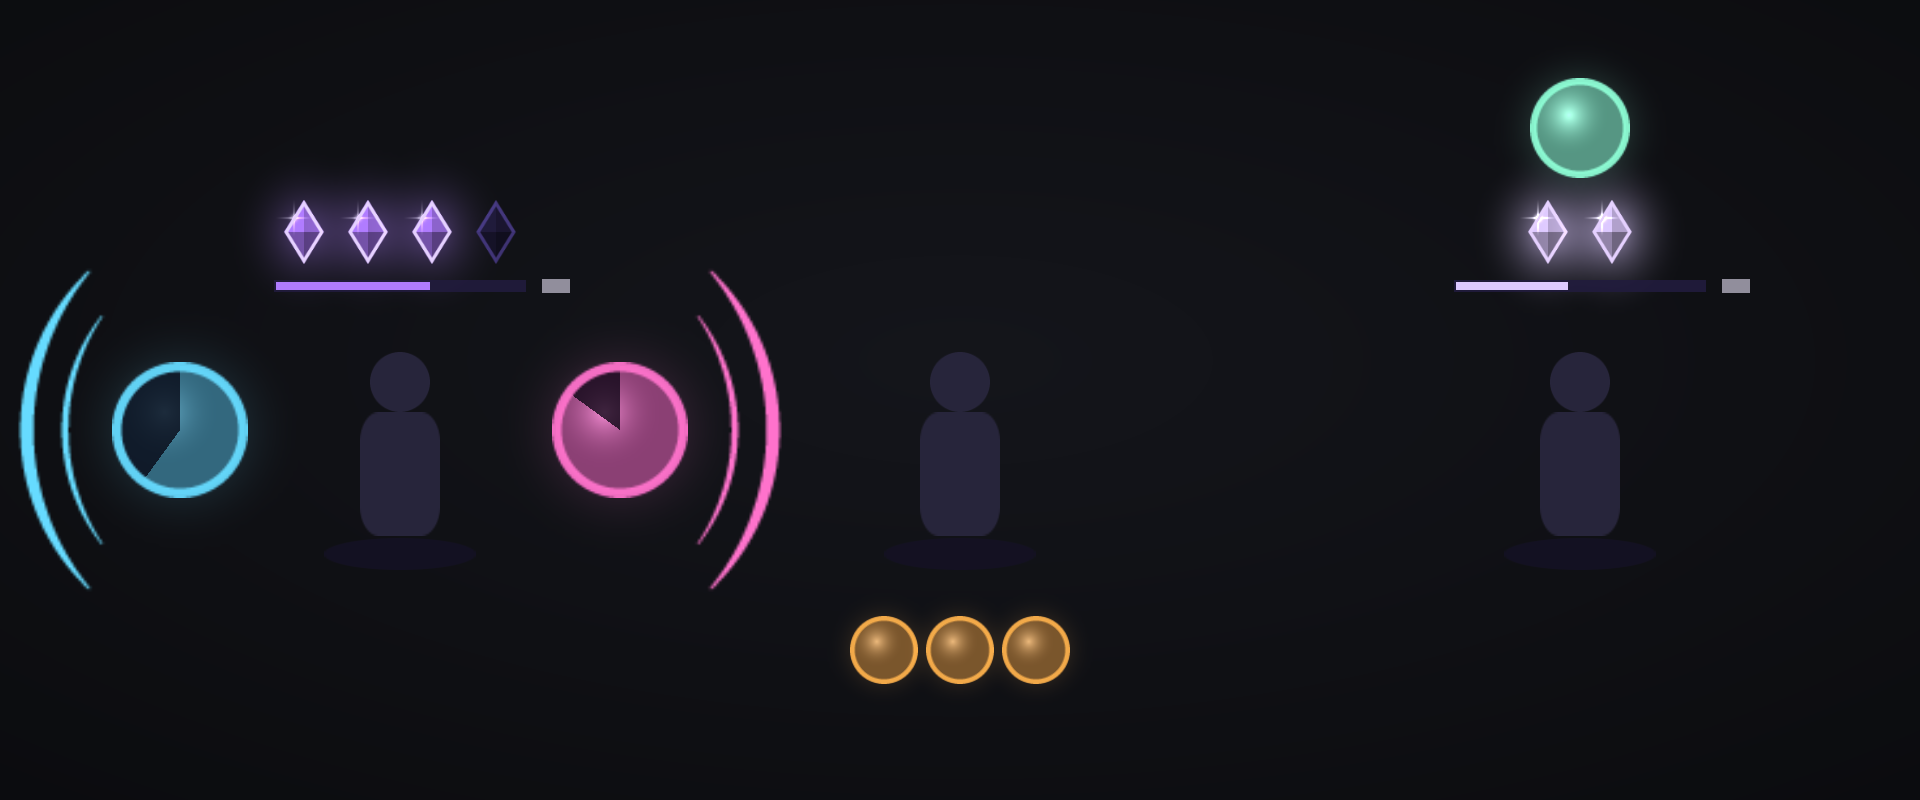
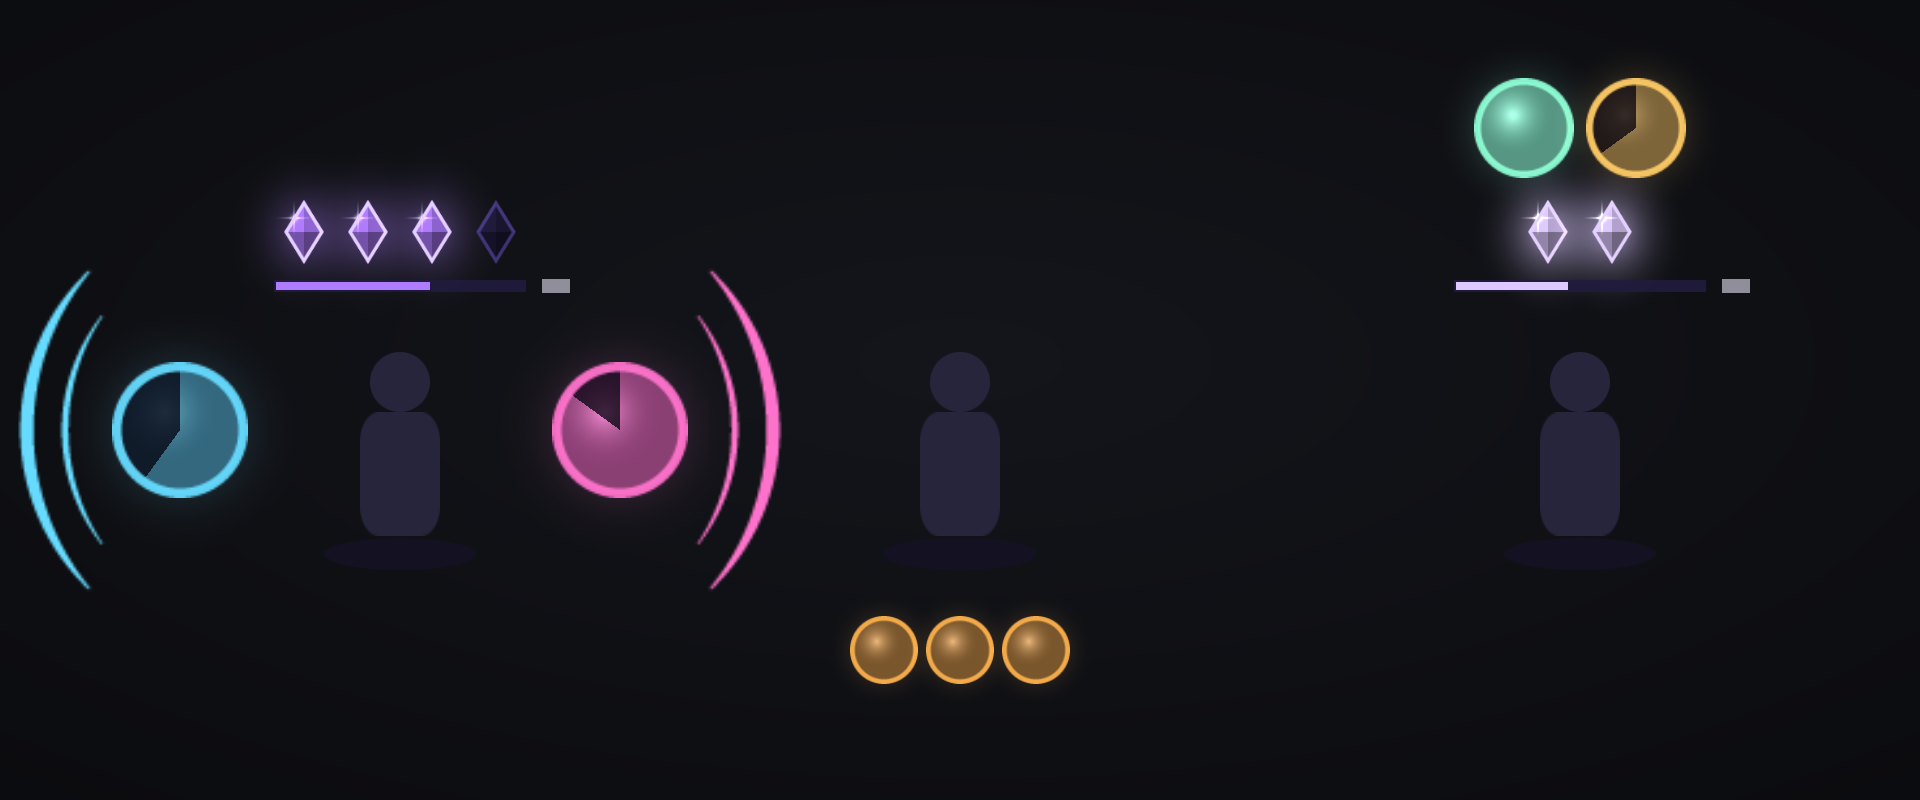
Arcanum 1.2.0 : Eurêka actif, à côté de la Présence spirituelle
Au-dessus des charges, l'icône d'Eurêka (cerclée d'or, avec son temps
restant) s'affiche tant que l'amélioration est active. Présence
spirituelle et Eurêka actifs ensemble : les deux icônes côte à côte.

Changed region(s): [[0.75, 0.0938, 0.875, 0.2188]]

diff --git a/tools/test/run_tests.py b/tools/test/run_tests.py
@@ -627,15 +627,25 @@ def main():
     check(f.S.stacks == 1 and len(shown) == 2 and all(c._points[1][5] > 100 for c in shown),
           "une charge : les cristaux apparaissent au-dessus du personnage, un par charge visée")
     check(hud.bar._alpha == 1 and hud.barText._text in ("18 s", "17 s"), "sous les cristaux, la barre de leur fenêtre et ses secondes")
-    pom = hud.pomIcon
-    check(pom.on is False and pom._alpha == 0, "Présence spirituelle inactive : rien au-dessus des charges")
+    pom, eur = hud.pomIcon, hud.eurekaIcon
+    check(pom.on is False and pom._alpha == 0 and eur.on is False and eur._alpha == 0,
+          "ni Présence spirituelle ni Eurêka : rien au-dessus des charges")
+    f.cast(EUREKA)
+    f.M.advance(0.4)
+    check(f.S.eureka.active and eur.on is True and eur._alpha > 0.9 and eur.icon._tex == 130817 and eur.cd._cd[2] == 8,
+          "Eurêka actif : son icône s'affiche, avec ses 8 s")
+    check(eur._points[1][4] == 0 and eur._points[1][5] > shown[0]._points[1][5], "au-dessus des charges, centrée")
     f.cast(POM)
     f.M.advance(0.4)
     check(f.S.pom.active and pom.on is True and pom._alpha > 0.9 and pom.icon._tex == 130043
           and pom._points[1][5] > shown[0]._points[1][5], "Présence spirituelle active : son icône s'affiche au-dessus des charges")
+    check(pom._points[1][4] == -28 and eur._points[1][4] == 28, "les deux actives : côte à côte")
     f.cast(WRATH)
     f.M.advance(0.6)
     check(not f.S.pom.active and pom.on is False and pom._alpha == 0, "dépensée par le Courroux : l'icône disparaît")
+    check(eur.on is True and eur._points[1][4] == 0, "Eurêka, toujours actif, se recentre")
+    f.M.advance(7)
+    check(not f.S.eureka.active and eur.on is False and eur._alpha == 0, "Eurêka terminé : son icône disparaît")
     played = lambda name: len([p for p in (f.M.soundFiles or {}).values() if p.endswith(name + ".ogg")])
     check(played("burst") == 0, "plus aucun son de burst")
     f.M.proc("Barrage de projectiles", 400588)
@@ -678,15 +688,16 @@ def main():
     f.M.setCombat(False)
     f.run('Mock.auras = {}; Mock.fire("UNIT_AURA", "player", {})')
     f.run('SlashCmdList.ARCANUM("demo")')
-    sides, charges, pom_seen = set(), set(), False
+    sides, charges, pom_seen, eur_seen = set(), set(), False, False
     for _ in range(240):
         f.M.advance(0.05)
         pom_seen = pom_seen or pom.on is True
+        eur_seen = eur_seen or eur.on is True
         sides.update(k for k, b in (("clear", left), ("barrage", right)) if b.on)
         charges.add(f.S.stacks)
     check(sides == {"clear", "barrage"}, "la démonstration montre les deux procs, chacun de son côté")
     check(charges == {0, 1, 2, 3, 4}, "les charges qui montent")
-    check(pom_seen, "et la Présence spirituelle")
+    check(pom_seen and eur_seen, "la Présence spirituelle et Eurêka")
     f.run('SlashCmdList.ARCANUM("demo")')
     f.M.advance(0.5)
     check(not any(b.on for b in hud.procs.values()) and f.S.stacks == 0 and not any(c._shown for c in hud.crystals.values()),

diff --git a/tools/preview.py b/tools/preview.py
@@ -2,7 +2,7 @@
 """Aperçu du HUD d'Arcanum : compose les vraies textures de l'addon selon la mise en page de UI/Hud.lua.
 
 Trois scènes : en combat (procs de part et d'autre du personnage, charges au-dessus), hors combat (rappels
-sous le personnage), et la Présence spirituelle active.
+sous le personnage), et la Présence spirituelle et Eurêka actifs.
 
 Ce n'est pas une capture du jeu : les icônes de sorts et les textes sont remplacés par des aplats.
 Sert à juger les formes, les couleurs et les halos sans lancer WoW. Aucune dépendance.
@@ -201,9 +201,10 @@ def scene(cx, cy, stacks=0, target=2, window=0.0, clear=None, barrage=None, pom=
         blit(None, cx, by, 126, 6, C["socket"], 0.90)
         blit(None, cx - 62 + 124 * window / 2, by, 124 * window, 4, col, 1)
         blit(None, cx + 62 + 16, by, 14, 7, mix(C["text"], C["ink"], 0.35), 0.9)   # secondes (aplat)
-    # Présence spirituelle active : son icône, au-dessus des charges
+    # Présence spirituelle et Eurêka actifs : leurs icônes côte à côte, au-dessus des charges
     if pom:
-        round_icon(cx, top - 17 - 23 - 12, 46, C["pom"], C["pom"], glow=0.50)
+        round_icon(cx - 28, top - 17 - 23 - 12, 46, C["pom"], C["pom"], glow=0.50)
+        round_icon(cx + 28, top - 17 - 23 - 12, 46, C["power"], C["power"], glow=0.50, cooldown=0.35)
     # rappels avant le combat, sous le personnage
     amber = (1.000, 0.700, 0.300)
     for i in range(reminders):
@@ -213,7 +214,7 @@ def scene(cx, cy, stacks=0, target=2, window=0.0, clear=None, barrage=None, pom=
 
 def main():
     background()
-    # en combat, deux procs et trois charges sur quatre ; hors combat, trois rappels ; Présence spirituelle active
+    # en combat, deux procs et trois charges sur quatre ; hors combat, trois rappels ; Présence spirituelle et Eurêka actifs
     scene(200, 215, stacks=3, target=4, window=0.62, clear=0.6, barrage=0.85)
     scene(480, 215, reminders=3)
     scene(790, 215, stacks=2, target=2, window=0.45, pom=True)

diff --git a/README.md b/README.md
@@ -6,11 +6,11 @@ Arcanum place chaque information d'un côté de ton personnage, pour que tu la l
 
 ![Aperçu du HUD d'Arcanum](docs/apercu.png)
 
-*Aperçu composé avec les textures de l'addon (le personnage est une silhouette, les icônes sont remplacées par des aplats, les zones sont plus rapprochées qu'en jeu). De gauche à droite : en combat avec deux procs et des charges, hors combat avec trois rappels, et la Présence spirituelle active. En jeu : `/arc demo`.*
+*Aperçu composé avec les textures de l'addon (le personnage est une silhouette, les icônes sont remplacées par des aplats, les zones sont plus rapprochées qu'en jeu). De gauche à droite : en combat avec deux procs et des charges, hors combat avec trois rappels, et la Présence spirituelle et Eurêka actifs. En jeu : `/arc demo`.*
 
 - **À gauche : les Idées claires. À droite : le Barrage de projectiles.** Une grande icône, celle du proc, cerclée de sa couleur (bleu clair ou rose), avec le temps restant en chiffres et un voile qui grandit à mesure que le proc s'épuise. Pas de proc : le côté reste vide. Un **décor** entoure l'icône tant que le proc est là, à sa couleur : croissants (d'origine), losange, anneau de runes qui tourne, éclat de rayons, ou aucun. Il se choisit dans les réglages (« Décor des procs », qui le montre aussitôt sur le HUD) ou avec `/arc decor`.
 - **En haut : les charges de Déflagration des Arcanes**, seulement quand tu en as. Un cristal par charge visée (deux par défaut, réglable à 3 ou 4), qui s'éclaircit quand la cible est atteinte ; un cristal de plus apparaît quand le jeu t'offre une charge. Dessous, une barre se vide pendant les 18 secondes de la fenêtre des charges, avec les secondes restantes ; elle rougit quand la fenêtre va se fermer.
-- **Au-dessus des charges : la Présence spirituelle**, tant qu'elle est active. Son icône, cerclée de vert, te rappelle que ton prochain sort sera instantané.
+- **Au-dessus des charges : la Présence spirituelle et Eurêka**, tant qu'ils sont actifs. L'icône de la Présence spirituelle, cerclée de vert, te rappelle que ton prochain sort sera instantané ; celle d'Eurêka, cerclée d'or, montre son temps restant. Une seule active : elle est centrée ; les deux : côte à côte.
 - **En bas, hors combat : les rappels.** L'icône de ce qu'il manque avant d'engager : Intelligence des Arcanes, armure, et ce qui reste à invoquer : eau, nourriture, gemme de mana. Seuls les objets invoqués comptent (une eau achetée ne dispense pas d'en invoquer), et pour la gemme c'est la meilleure que tu sais invoquer qui est attendue. Rien ne manque : rien ne s'affiche. Au repos en ville, les rappels attendent que tu sortes ou que tu cibles un ennemi.
 
 ![Les quatre décors des procs](docs/decors.png)
@@ -25,7 +25,7 @@ Tu peux en choisir d'autres dans les réglages (`/arc`) : chaque signal a sa lig
 
 Pour un son hors liste : `/arc son 888` fait entendre le son de cet identifiant, `/arc son barrage 888` le choisit pour le Barrage (`clear` pour les Idées claires), `/arc son barrage` revient au son par défaut. Les identifiants se trouvent dans la base de sons de Wowhead (le nombre dans l'adresse de la page). Tu peux aussi déposer tes propres fichiers `.ogg` dans `Arcanum\Sounds` (voir le LISEZMOI du dossier).
 
-**Ce qu'Arcanum ne fait plus.** Jusqu'à la version 0.12, Arcanum était un cercle qui conseillait le prochain sort. Depuis la 1.0 il ne conseille plus le cycle, et depuis la 1.1 il ne signale plus le moment du burst : il montre tes procs, tes charges, ta Présence spirituelle et tes rappels, et te laisse jouer.
+**Ce qu'Arcanum ne fait plus.** Jusqu'à la version 0.12, Arcanum était un cercle qui conseillait le prochain sort. Depuis la 1.0 il ne conseille plus le cycle, et depuis la 1.1 il ne signale plus le moment du burst : il montre tes procs, tes charges, ta Présence spirituelle, ton Eurêka et tes rappels, et te laisse jouer.
 
 ## Installation
 

diff --git a/CHANGELOG.md b/CHANGELOG.md
@@ -1,5 +1,9 @@
 # Historique d'Arcanum
 
+## 1.2.0 — 13 novembre 2026
+
+- Eurêka actif : son icône, cerclée d'or, s'affiche au-dessus des charges avec son temps restant, tant que l'amélioration dure. Si la Présence spirituelle est active en même temps, les deux icônes sont côte à côte.
+
 ## 1.1.0 — 13 novembre 2026
 
 - Rappels d'eau et de nourriture : seuls les objets invoqués comptent (une eau achetée ne dispense plus d'en invoquer). Les objets de tous les rangs d'Invocation d'eau et de nourriture de Forever sont reconnus.
